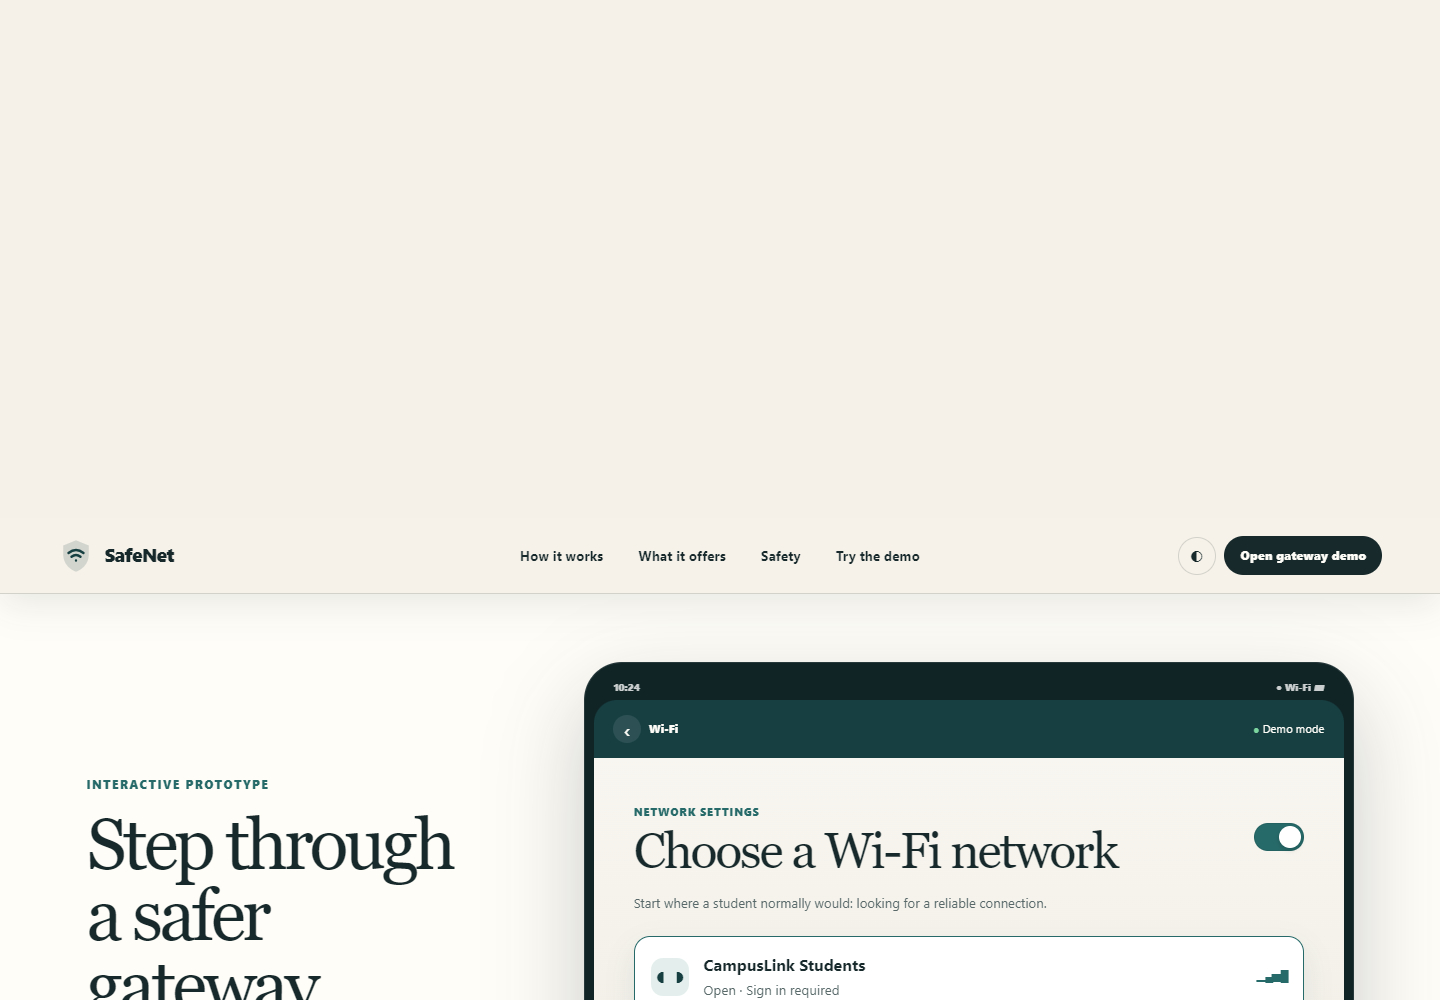
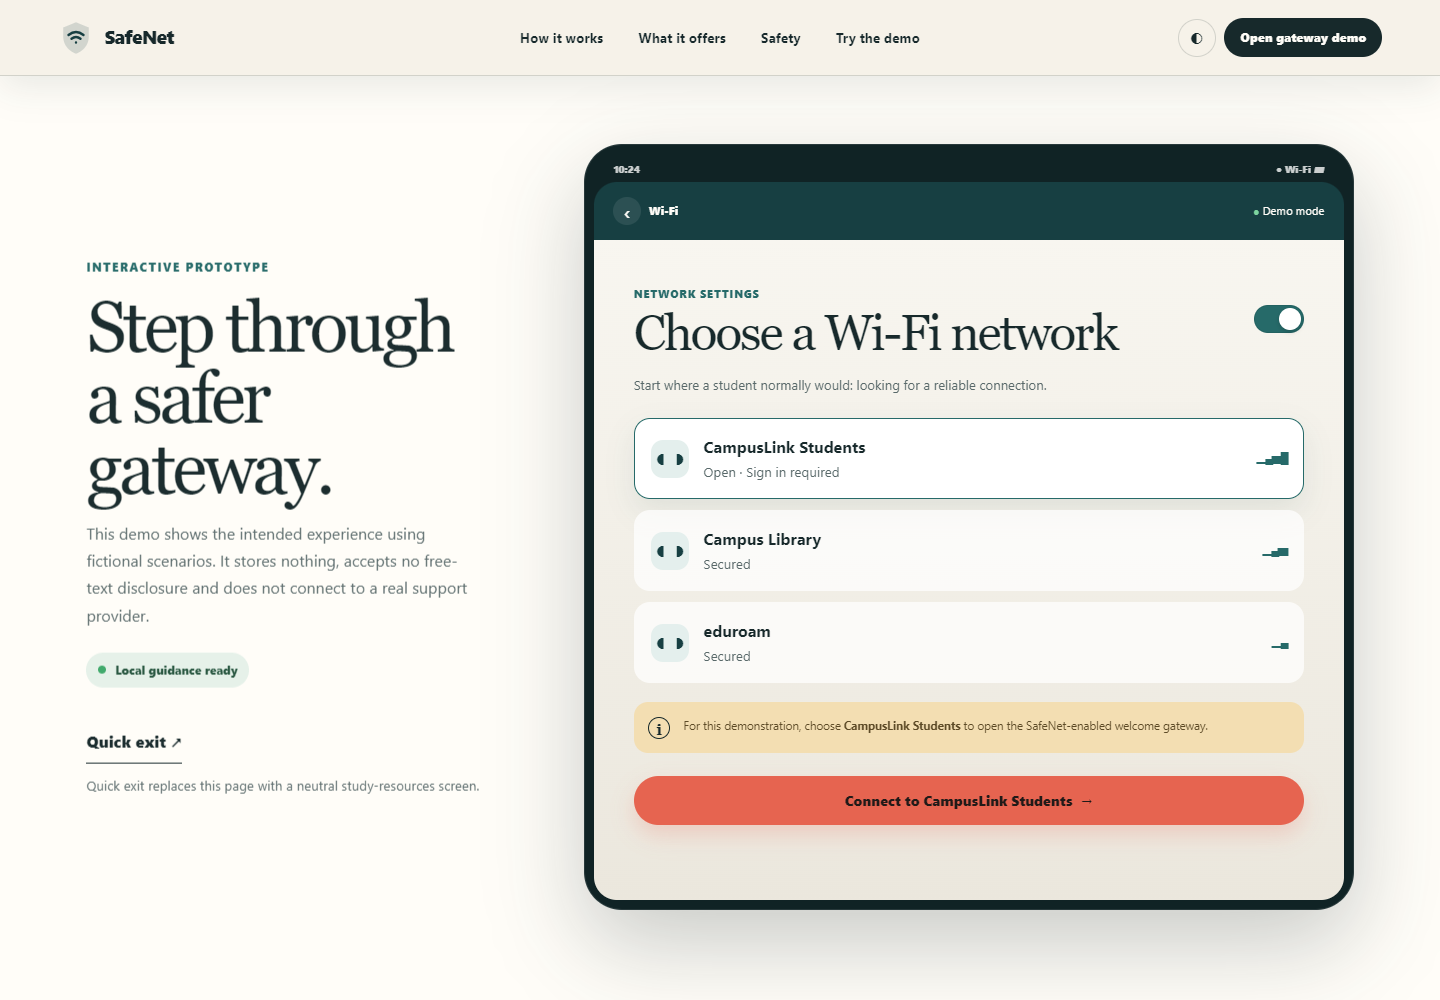
Fix public routes and evidence links

diff --git a/dist/sources.html b/dist/sources.html
@@ -25,7 +25,7 @@
     <article class="content-card">
       <h2>Zimbabwean campus cyberbullying</h2>
       <p>A case study surveyed 380 undergraduates at one Zimbabwean higher-education institution. Seventy-five per cent reported receiving a threatening message on campus. The finding is institution-specific and is not a national or women-only prevalence estimate.</p>
-      <a href="https://doi.org/10.20470/jsi.v11i2.387" target="_blank" rel="noopener noreferrer">Sibanda, “Cyberbullying in Higher and Tertiary Education institutions in Zimbabwe” <span aria-hidden="true">↗</span></a>
+      <a href="https://www.proquest.com/openview/5d5e9c30245a8db3762f39da4aa132b8/1?pq-origsite=gscholar&amp;cbl=2032453" target="_blank" rel="noopener noreferrer">Sibanda, “Cyberbullying in Higher and Tertiary Education institutions in Zimbabwe” <span aria-hidden="true">↗</span></a>
     </article>
     <article class="content-card">
       <h2>Zimbabwean university e-safety intervention</h2>

diff --git a/dist/index.html b/dist/index.html
@@ -98,7 +98,7 @@
       </div>
       <div class="source-block">
         <p class="source-note">The study is institution-specific and not a national or women-only prevalence estimate. SafeNet uses it as an initial signal, not a universal claim.</p>
-        <a class="source-link" href="https://doi.org/10.20470/jsi.v11i2.387" target="_blank" rel="noopener noreferrer">Read the peer-reviewed study <span aria-hidden="true">↗</span></a>
+        <a class="source-link" href="https://www.proquest.com/openview/5d5e9c30245a8db3762f39da4aa132b8/1?pq-origsite=gscholar&amp;cbl=2032453" target="_blank" rel="noopener noreferrer">Read the indexed study <span aria-hidden="true">↗</span></a>
       </div>
     </section>
 
